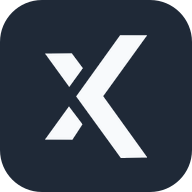
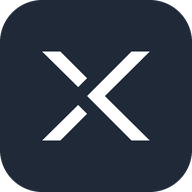
made the change request updates

Changed region(s): [[0.2188, 0.1562, 0.7812, 0.8438]]

diff --git a/src/components/composer/AskItrixButton.tsx b/src/components/composer/AskItrixButton.tsx
@@ -1,5 +1,6 @@
 'use client';
 
+import Image from 'next/image';
 import { COMPOSER_COPY } from '@/lib/content/composerCopy';
 
 /**
@@ -10,16 +11,18 @@ import { COMPOSER_COPY } from '@/lib/content/composerCopy';
  * control at the right edge of the prompt shell. What changed is the glyph and its
  * name: the arrow became the brand X, and the accessible name became "Ask itriX".
  *
- * ── WHY THIS IS NOT `✕` ─────────────────────────────────────────────────────
- * A symmetrical 45° cross is the universal DISMISS glyph. Putting one on a submit
- * control would be a real usability regression — a visitor would reasonably read
- * it as "clear my message". So the mark is drawn at the same lean as the itriX
- * wordmark's X and the arrival motif (±34°, taller than wide), which reads as a
- * letterform rather than a close button. That distinction is the whole reason the
- * glyph is hand-drawn here instead of borrowed from an icon set.
+ * ── THE GLYPH IS THE SUPPLIED itriX X ───────────────────────────────────────
+ * The mark is the brand X asset (`/brand/itrix-x-inverse.png`) — the same
+ * letterform as the wordmark's X, in its reversed (white) cut because this button
+ * sits on `--ink-primary` (a dark disc) with a `--ink-inverse` foreground. It is
+ * NOT a symmetrical 45° cross: a dismiss glyph on a submit control would read as
+ * "clear my message", so the supplied letterform is used instead of an icon-set X.
+ * The busy state still swaps to the inline spinner below, which spins and inherits
+ * `currentColor`, so the asset only ever renders while idle.
  *
  * An icon-only control REQUIRES an accessible name, which is why `aria-label` is
- * not optional and comes from one shared string (§7.4).
+ * not optional and comes from one shared string (§7.4). The image itself is
+ * `aria-hidden` — the button's label already names the control.
  *
  * It disables only while empty or submitting. It never disables because of length
  * — there is no character ceiling on this surface (R28) — and never because an
@@ -44,11 +47,16 @@ export function AskItrixButton({ disabled = false, submitting = false }: AskItri
           <path d="M12 3a9 9 0 1 0 9 9" />
         </svg>
       ) : (
-        /* The itriX X: two strokes at the wordmark's lean, not a 45° cross. */
-        <svg aria-hidden="true" viewBox="0 0 24 24" className="composer-send__icon composer-send__icon--x" fill="none" stroke="currentColor" strokeWidth="2.3" strokeLinecap="round">
-          <path d="M8.1 3.7 15.9 20.3" />
-          <path d="M15.9 3.7 8.1 20.3" />
-        </svg>
+        /* The supplied itriX X letterform (reversed cut, for the dark disc). */
+        <Image
+          src="/brand/itrix-x-inverse.png"
+          alt=""
+          aria-hidden="true"
+          width={22}
+          height={18}
+          priority
+          className="composer-send__icon composer-send__icon--x"
+        />
       )}
     </button>
   );

diff --git a/src/components/brand/ItrixLogo.tsx b/src/components/brand/ItrixLogo.tsx
@@ -1,36 +1,55 @@
 import Image from 'next/image';
 
 /**
- * THE itriX WORDMARK — the supplied brand asset.
+ * THE itriX WORDMARK — the supplied brand assets.
  *
- * `assets/itrix-logo-primary.png` from the approved landing package
- * (itriX_Brand_Aligned_First_Landing_Page_v1.0). It replaces the typeset
- * "itri<span>X</span>" fallback that earlier phases used: that was a stand-in
- * built from Space Grotesk, not the real lockup, and it rendered the X in accent
- * blue where the actual mark does something else.
+ * Two cuts of the same lockup were supplied so the mark can sit on either a light
+ * or a dark surface without a stroke or a halo:
+ *
+ *   variant="light"  →  /brand/itrix-logo-primary.png   (ink mark, for LIGHT bg)
+ *   variant="dark"   →  /brand/itrix-logo-inverse.png   (reversed mark, for DARK bg)
+ *
+ * "light" / "dark" name the SURFACE the mark sits on, not the colour of the mark
+ * itself — the light-surface cut is the dark (ink) wordmark, and vice-versa. The
+ * whole current surface is light (`--canvas`), so "light" is the default and is
+ * what renders today; the dark cut is here for any dark surface that a later phase
+ * introduces (a dark rail, a dark hero) so it can be used without editing assets.
  *
  * Brand Manual §2.3–2.4: the wordmark renders at ≥120px wide with clear space
- * equal to the lowercase "i" height. The `pr-*` padding on the link enforces the
- * clear space so a neighbouring nav item cannot encroach on it.
+ * equal to the lowercase "i" height. The caller's padding enforces the clear space
+ * so a neighbouring nav item cannot encroach on it.
  *
- * The source PNG is 752×343 (≈2.19:1), so the height follows the width to keep
- * the aspect ratio exact rather than approximating it.
+ * The source PNGs are ≈1446×446 (≈3.24:1); the height follows the width from that
+ * exact ratio so the lockup is never stretched.
  */
 export interface ItrixLogoProps {
   /** Rendered width in px. The approved header uses 120 desktop / 96 mobile. */
   width?: number;
   className?: string;
   priority?: boolean;
+  /** The SURFACE the mark sits on. `light` (default) uses the ink cut; `dark` the reversed cut. */
+  variant?: 'light' | 'dark';
 }
 
-const ASPECT = 752 / 343;
+/** Exact aspect ratio of the supplied wordmark assets (both cuts share it). */
+const ASPECT = 1446 / 446;
 
-export function ItrixLogo({ width = 120, className = '', priority = false }: ItrixLogoProps) {
+const SOURCES: Record<'light' | 'dark', string> = {
+  light: '/brand/itrix-logo-primary.png',
+  dark: '/brand/itrix-logo-inverse.png',
+};
+
+export function ItrixLogo({
+  width = 120,
+  className = '',
+  priority = false,
+  variant = 'light',
+}: ItrixLogoProps) {
   const height = Math.round(width / ASPECT);
 
   return (
     <Image
-      src="/brand/itrix-logo-primary.png"
+      src={SOURCES[variant]}
       alt="itriX"
       width={width}
       height={height}

diff --git a/src/components/arrival/ArrivalCenter.tsx b/src/components/arrival/ArrivalCenter.tsx
@@ -1,7 +1,6 @@
 'use client';
 
 import { MainQuestion } from '@/components/center/MainQuestion';
-import { SupportingLine } from '@/components/center/SupportingLine';
 import { RotatingQuestionCarousel } from '@/components/center/RotatingQuestionCarousel';
 import { PathwayHint } from '@/components/center/PathwayHint';
 import { Composer } from '@/components/composer/Composer';
@@ -13,11 +12,15 @@ import { Composer } from '@/components/composer/Composer';
  * legal strip are the shell's, not the centre's):
  *
  *   3  main question    "What would you like computation to do better?" — the H1
- *   4  supporting line
  *   5  composer         attach + the itriX X, NO counter, NO "Begin review"
  *   6  safety notice    (inside the composer footer)
  *   7  rotating prompts one at a time, five in the cycle, one per family
  *   8  pathway hint
+ *
+ * The supporting line ("Start with the workload, system constraint, or strategic
+ * opportunity you came to itriX to examine.") that sat at element 4 was removed at
+ * the client's request — the arrival centre now goes straight from the question to
+ * the composer.
  *
  * ── WHAT LEFT ───────────────────────────────────────────────────────────────
  * `SituationFraming` is gone. "You already know computation is holding you back."
@@ -39,7 +42,6 @@ export function ArrivalCenter() {
   return (
     <section className="arrival-center" aria-labelledby="main-question">
       <MainQuestion id="main-question" />
-      <SupportingLine />
       <Composer variant="arrival" labelledBy="main-question" />
       <RotatingQuestionCarousel />
       <PathwayHint />

diff --git a/src/styles/surface-v6.css b/src/styles/surface-v6.css
@@ -291,11 +291,13 @@
 }
 .composer-keyhint__secondary { color: var(--ink-muted); }
 
-/* The X leans like the wordmark's, not like a 45° close glyph. Sized a touch
-   smaller than the retired arrow because two diagonal strokes read heavier than
-   one horizontal one at the same box. */
-.composer-send__icon--x { width: 22px; height: 22px; }
-.composer[data-variant='docked'] .composer-send__icon--x { width: 19px; height: 19px; }
+/* The supplied itriX X letterform. It is not square (≈1.21:1), so it is sized by
+   width with height following the aspect ratio — never forced to a square box,
+   which would stretch it. object-fit keeps it exact if any ancestor rule sets a
+   height. Sized a touch smaller than the retired arrow because the X reads heavier
+   at the same box. */
+.composer-send__icon--x { width: 22px; height: auto; object-fit: contain; }
+.composer[data-variant='docked'] .composer-send__icon--x { width: 19px; height: auto; }
 
 /* ── 7 · The rail's account footer ────────────────────────────────────────── */
 .rail-account { display: flex; flex-direction: column; gap: 10px; }

diff --git a/src/hooks/useComposer.ts b/src/hooks/useComposer.ts
@@ -36,7 +36,16 @@ import type { SubmitResult, Turn } from '@/types/thread.types';
  * never silently drop what someone typed.
  */
 
-const MIN_LENGTH = 8;
+/**
+ * The Ask itriX (X) control activates the moment the visitor starts typing — a
+ * single non-whitespace character is enough (client request, 2026-07-31). This
+ * value gates BOTH the button's enabled state (`canSubmit`, consumed by
+ * AskItrixButton via Composer) AND the submit guard below, so they can never
+ * disagree: the button never lights up on input that the guard would then reject
+ * as "too short". A turn with no text but a staged attachment is still allowed —
+ * that path does not depend on this length at all.
+ */
+const MIN_LENGTH = 1;
 
 /** A locally-minted id, used only while the backend has not issued a real one. */
 function localId(prefix: string): string {

diff --git a/src/app/(portal)/workspace/page.tsx b/src/app/(portal)/workspace/page.tsx
@@ -4,7 +4,6 @@ import { useEffect } from 'react';
 import { ConversationColumn } from '@/components/shell/ConversationColumn';
 import { Composer } from '@/components/composer/Composer';
 import { MainQuestion } from '@/components/center/MainQuestion';
-import { SupportingLine } from '@/components/center/SupportingLine';
 import { PathwayHint } from '@/components/center/PathwayHint';
 import { useThreadStore } from '@/store/threadStore';
 
@@ -44,7 +43,6 @@ export default function WorkspaceIndex() {
       emptyState={
         <section className="arrival-center" aria-labelledby="main-question">
           <MainQuestion id="main-question" />
-          <SupportingLine />
           <Composer variant="arrival" labelledBy="main-question" />
           <PathwayHint />
         </section>

diff --git a/src/lib/content/centerCopy.ts b/src/lib/content/centerCopy.ts
@@ -45,10 +45,6 @@ export const CENTER_COPY = {
    */
   mainQuestion: 'What would you like computation to do better?',
 
-  /** The supporting line beneath the question. */
-  supportingLine:
-    'Start with the workload, system constraint, or strategic opportunity you came to itriX to examine.',
-
   /** Placeholder inside the composer. Grey hint text, never a label. */
   promptPlaceholder: 'Describe the bottleneck or opportunity in one non-confidential sentence…',
 
